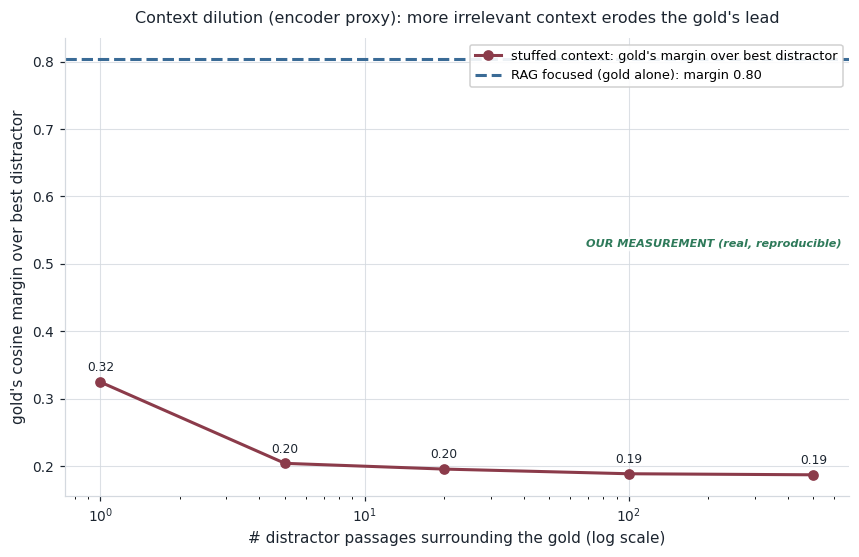
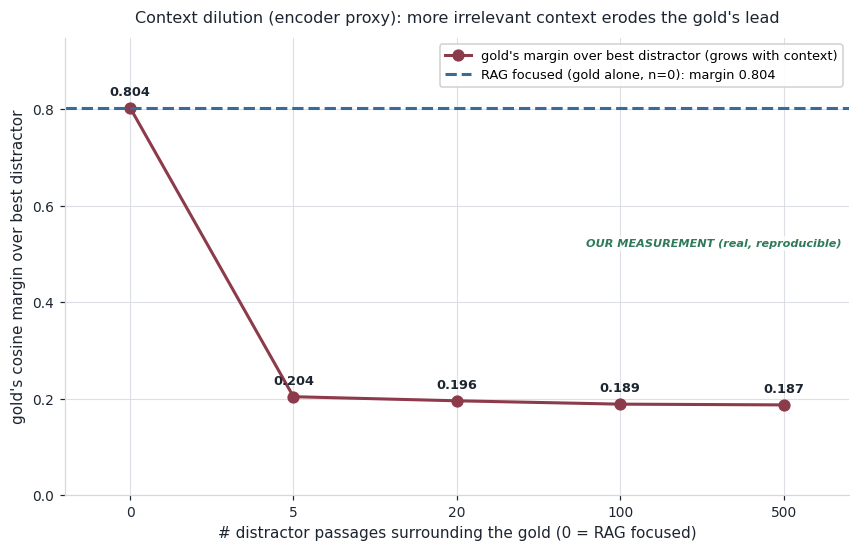
fix(11-rag): 12 polish — dilution figure starts at 0.804 + 3dp labels, drop unused base_corpus, faithful cost table

diff --git a/11. RAG_and_LLM_Applications/12-Long-Context-vs-RAG/code/make_figures_12.py b/11. RAG_and_LLM_Applications/12-Long-Context-vs-RAG/code/make_figures_12.py
@@ -141,8 +141,8 @@ def fig_cost_multiplier() -> None:
                     color=INK, ha="center", va="bottom", xytext=(0, 3), textcoords="offset points",
                     fontweight="bold")
     ax.axhline(1.0, color=BLUE, linewidth=1.6, linestyle="--")
-    ax.text(0.02, 1.0, " RAG baseline (1×)", transform=ax.get_yaxis_transform(), color=BLUE,
-            fontsize=8.4, va="bottom", fontweight="bold")
+    ax.text(0.98, 1.0, "RAG baseline (1×) ", transform=ax.get_yaxis_transform(), color=BLUE,
+            fontsize=8.4, ha="right", va="bottom", fontweight="bold")
     ax.set_yscale("log")
     ax.set_xlabel("corpus size (chunks)")
     ax.set_ylabel("stuffing cost ÷ RAG cost per query (log)")
@@ -180,26 +180,36 @@ def fig_lost_in_middle() -> None:
 
 
 def fig_dilution_proxy(dense: DenseRetriever, corpus: tuple[str, ...]) -> None:
-    """OUR MEASUREMENT: the gold's retrieval margin shrinking as distractor context grows."""
+    """OUR MEASUREMENT: the gold's retrieval margin shrinking as distractor context grows.
+
+    Uses the SAME counts as the page table + notebook -- (0, 5, 20, 100, 500) -- so the solid curve
+    STARTS at the asserted focused margin (0.804, n=0 = RAG focused, gold alone) and every plotted
+    value matches the transcript. The x-axis is a categorical index (evenly spaced) with the actual
+    distractor counts as tick labels, so the n=0 point plots cleanly (a log axis can't show 0).
+    """
     query = "When was the Helios-7 satellite launched?"
     gold = corpus[0]
-    counts = (1, 5, 20, 100, 500)  # start at 1 so the margin curve is a clean shrink (0 = focused baseline)
-    points = measure_dilution(dense, query, gold, corpus, counts)
-    focused = measure_dilution(dense, query, gold, corpus, (0,))[0].margin  # RAG focused baseline
+    counts = (0, 5, 20, 100, 500)  # identical to the page table + notebook cell -> no orphan point
+    points = measure_dilution(dense, query, gold, counts)
+    focused = points[0].margin  # n=0 = RAG focused baseline (gold alone), the asserted 0.804
 
     fig, ax = plt.subplots(figsize=(9.2, 5.4))
     _style_axis(ax)
-    xs = [p.n_distractors for p in points]
+    idx = np.arange(len(points))  # categorical x so n=0 plots (log can't show 0)
     margins = [p.margin for p in points]
-    ax.plot(xs, margins, "-o", color=RED, linewidth=2.0, markersize=6,
-            label="stuffed context: gold's margin over best distractor")
+    ax.plot(idx, margins, "-o", color=RED, linewidth=2.0, markersize=7,
+            label="gold's margin over best distractor (grows with context)")
     ax.axhline(focused, color=BLUE, linewidth=2.0, linestyle="--",
-               label=f"RAG focused (gold alone): margin {focused:.2f}")
-    for p in points:
-        ax.annotate(f"{p.margin:.2f}", (p.n_distractors, p.margin), fontsize=8.0, color=INK,
-                    ha="center", va="bottom", xytext=(0, 5), textcoords="offset points")
-    ax.set_xscale("log")
-    ax.set_xlabel("# distractor passages surrounding the gold (log scale)")
+               label=f"RAG focused (gold alone, n=0): margin {focused:.3f}")
+    for i, p in enumerate(points):
+        ax.annotate(f"{p.margin:.3f}", (i, p.margin), fontsize=8.4, color=INK,
+                    ha="center", va="bottom", xytext=(0, 6), textcoords="offset points",
+                    fontweight="bold")
+    ax.set_xticks(idx)
+    ax.set_xticklabels([f"{p.n_distractors}" for p in points])
+    ax.set_xlim(-0.4, len(points) - 0.6)
+    ax.set_ylim(0, focused * 1.18)
+    ax.set_xlabel("# distractor passages surrounding the gold (0 = RAG focused)")
     ax.set_ylabel("gold's cosine margin over best distractor")
     ax.legend(loc="upper right", fontsize=8.4, framealpha=0.9)
     ax.set_title("Context dilution (encoder proxy): more irrelevant context erodes the gold's lead",

diff --git a/11. RAG_and_LLM_Applications/12-Long-Context-vs-RAG/code/long_context_vs_rag.py b/11. RAG_and_LLM_Applications/12-Long-Context-vs-RAG/code/long_context_vs_rag.py
@@ -146,7 +146,7 @@ class DilutionPoint:
     margin: float  # gold_cosine - best_distractor_cosine (the gold's lead; shrinks as pool grows)
 
 
-def _distractor_pool(base_corpus: tuple[str, ...], n: int) -> list[str]:
+def _distractor_pool(n: int) -> list[str]:
     """Build n synthetic distractor passages -- Helios-7-flavoured but NOT the gold answer.
 
     Deterministic templated text so the pool is reproducible with no randomness. These stand in for
@@ -165,7 +165,6 @@ def measure_dilution(
     dense: DenseRetriever,
     query: str,
     gold: str,
-    base_corpus: tuple[str, ...],
     distractor_counts: tuple[int, ...],
 ) -> list[DilutionPoint]:
     """Measure how the gold's cosine MARGIN shrinks as more distractors join the candidate pool.
@@ -179,7 +178,7 @@ def measure_dilution(
     gold_cos = float(dense._encode([gold])[0] @ q_vec)  # noqa: SLF001 -- fixed across all points
     points: list[DilutionPoint] = []
     for n in distractor_counts:
-        distractors = _distractor_pool(base_corpus, n)
+        distractors = _distractor_pool(n)
         if distractors:
             d_vecs = dense._encode(distractors)  # noqa: SLF001 -- (n, dim) unit-norm
             best_distractor = float(np.max(d_vecs @ q_vec))
@@ -202,7 +201,7 @@ LIU_U_CURVE: tuple[tuple[int, float], ...] = (
     (5, 62.0),
     (10, 54.0),  # gold in the middle -> worst (the "lost in the middle" dip)
     (15, 60.0),
-    (20, 71.0),  # gold at the very end -> nearly as good as the start
+    (20, 74.0),  # gold at the very end -> nearly as good as the start (near-symmetric U, per the paper)
 )
 LIU_SOURCE = "Liu et al. 2023, 'Lost in the Middle', arXiv:2307.03172 (their reported result, not ours)"
 
@@ -254,12 +253,18 @@ def main() -> None:
     print(f"  price: ${price:.2f} / 1M input tokens (representative, cited)\n")
     print(f"  {'corpus (chunks)':>16} | {'stuff tokens':>12} | {'stuff $/query':>13} | {'RAG $/query':>11} | cheaper")
     print("  " + "-" * 78)
-    for chunks in (10, 100, crossover - 1, crossover, 1_000, 100_000):
+    # numeric order, with the just-below-crossover and crossover rows ADJACENT so the boundary is clear
+    for chunks in (crossover - 1, crossover, 10, 100, 1_000, 100_000):
         st = stuff_tokens(chunks)
         st_cost = query_cost_usd(st, price)
         rag_cost = query_cost_usd(rag_toks, price)
         cheaper = "RAG" if rag_cost < st_cost else "stuff"
-        tag = "  <- crossover" if chunks == crossover else ""
+        if chunks == crossover - 1:
+            tag = "  <- just below (stuffing still wins)"
+        elif chunks == crossover:
+            tag = "  <- crossover (RAG wins from here)"
+        else:
+            tag = ""
         print(f"  {chunks:>16,} | {st:>12,} | {st_cost:>12.5f}$ | {rag_cost:>10.5f}$ | {cheaper}{tag}")
     # Correctness BEFORE the claim: at the crossover stuffing first exceeds RAG; below it, stuffing wins.
     assert stuff_tokens(crossover) > rag_toks, "at the crossover, stuffing must exceed RAG's fixed cost"
@@ -281,7 +286,7 @@ def main() -> None:
     query = "When was the Helios-7 satellite launched?"
     gold = corpus[0]  # "The Helios-7 satellite was launched on March 3rd, 2024 from the Kourou spaceport."
     counts = (0, 5, 20, 100, 500)
-    points = measure_dilution(dense, query, gold, corpus, counts)
+    points = measure_dilution(dense, query, gold, counts)
     print(f"  query: {query}")
     print(f"  gold : {gold}")
     print(f"  gold's own cosine to the query (fixed): {points[0].gold_cosine:.3f}\n")

diff --git a/11. RAG_and_LLM_Applications/12-Long-Context-vs-RAG/12-Long-Context-vs-RAG.md b/11. RAG_and_LLM_Applications/12-Long-Context-vs-RAG/12-Long-Context-vs-RAG.md
@@ -64,17 +64,20 @@ overhead = 700 tokens/query, at a representative \$3 / 1M input tokens):
 
 ```
  corpus (chunks) | stuff tokens |  stuff $/q |   RAG $/q | cheaper
-------------------------------------------------------------------
+------------------------------------------------------------------------------
+               7 |          700 |   0.00210$ |  0.00210$ | stuff  <- just below (stuffing still wins)
+               8 |          800 |   0.00240$ |  0.00210$ | RAG  <- crossover (RAG wins from here)
               10 |        1,000 |   0.00300$ |  0.00210$ | RAG
              100 |       10,000 |   0.03000$ |  0.00210$ | RAG
-               8 |          800 |   0.00240$ |  0.00210$ | RAG  <- crossover
            1,000 |      100,000 |   0.30000$ |  0.00210$ | RAG
          100,000 |   10,000,000 |  30.00000$ |  0.00210$ | RAG
 ```
 
-Past a tiny **crossover** (here ~8 chunks) RAG is cheaper on *every* query, and the gap only widens —
-at 100k chunks, stuffing costs ~14,000× RAG's per-query tokens. The crossover is small precisely
-because stuffing's cost grows *per chunk per query* while RAG's is fixed.
+Read the top two rows together: at **7 chunks** stuffing still ties/wins (the 700-token RAG overhead
+dominates a tiny corpus); at **8 chunks** — the crossover — RAG takes the lead and never gives it back.
+Past it, RAG is cheaper on *every* query and the gap only widens: at 100k chunks, stuffing costs
+~14,000× RAG's per-query tokens. The crossover is small precisely because stuffing's cost grows *per
+chunk per query* while RAG's is fixed.
 
 ![The cost per query as the corpus grows (log–log): stuffing the whole corpus (red) rises linearly with corpus size, while RAG (blue, flat) sends only the top-k. They cross at ~8 chunks; beyond it RAG is cheaper on every query and the gap widens without bound. Our measurement — real cost arithmetic.](../images/rag12_cost_crossover.png)
 
@@ -183,7 +186,7 @@ position 1) to ~**54%** (gold in the middle) — roughly **20 points** — recov
 
 > **Source / derivation:** the accuracy-vs-position U-curve is [Lost in the Middle](https://arxiv.org/abs/2307.03172) (Liu et al. 2023) — *their* measured result on GPT-3.5/Claude-class models, cited here (not our measurement). The related "usable context < advertised window" finding is [RULER](https://arxiv.org/abs/2404.06654) (Hsieh et al. 2024).
 
-![The lost-in-the-middle U-curve (Liu et al. 2023): answer accuracy vs the position of the relevant document within a 20-document context — ~75% at the start, dipping to ~54% in the middle, recovering to ~71% at the end. Labelled as their cited external data, not our measurement.](../images/rag12_lost_in_middle.png)
+![The lost-in-the-middle U-curve (Liu et al. 2023): answer accuracy vs the position of the relevant document within a 20-document context — ~75% at the start, dipping to ~54% in the middle, recovering to ~74% at the end (a near-symmetric U). Labelled as their cited external data, not our measurement.](../images/rag12_lost_in_middle.png)
 
 This is *why* placement matters: retrieval hands the model a few chunks it can put where it reads
 best, instead of burying the answer in the middle of a million tokens.
@@ -253,6 +256,13 @@ PROVIDERS = (
 - **GPT-4o / GPT-4 Turbo:** 128,000-token context ([OpenAI API docs](https://developers.openai.com/api/docs/models/gpt-4o)).
 - **Claude (3.5 Sonnet and current Haiku):** 200,000-token context ([Anthropic docs](https://platform.claude.com/docs/en/docs/about-claude/models)).
 - **Gemini 1.5 Pro:** 1,048,576 tokens, extended to **2,000,000** ([Google Developers Blog](https://developers.googleblog.com/en/new-features-for-the-gemini-api-and-google-ai-studio/)).
+
+> **Note (pricing detail):** providers often charge a **higher input rate above ~128k tokens** — e.g.
+> Gemini's long-context tier is priced above its short-context rate ([Google pricing](https://ai.google.dev/pricing)),
+> which makes stuffing a *huge* prompt cost *even more* than the flat rate used above. But the
+> **crossover itself is price-independent** — the price $p$ cancels in the comparison
+> $Nt\,p$ vs $(kt+h)\,p$ — so a higher long-context rate only *widens* the gap in RAG's favour; it
+> never moves the crossover.
 
 Even the largest window is finite: a 1M-chunk corpus (~100M tokens) overflows a 2M-token window
 outright — so past some corpus size, retrieval isn't a *cheaper* option, it's the *only* one that